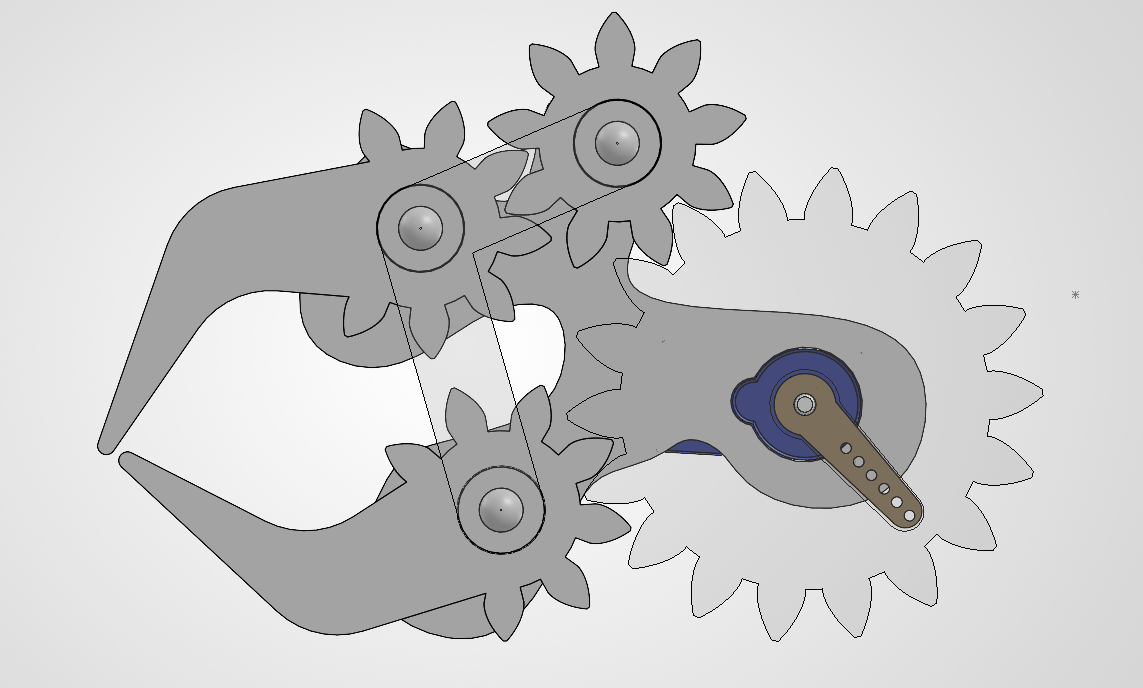
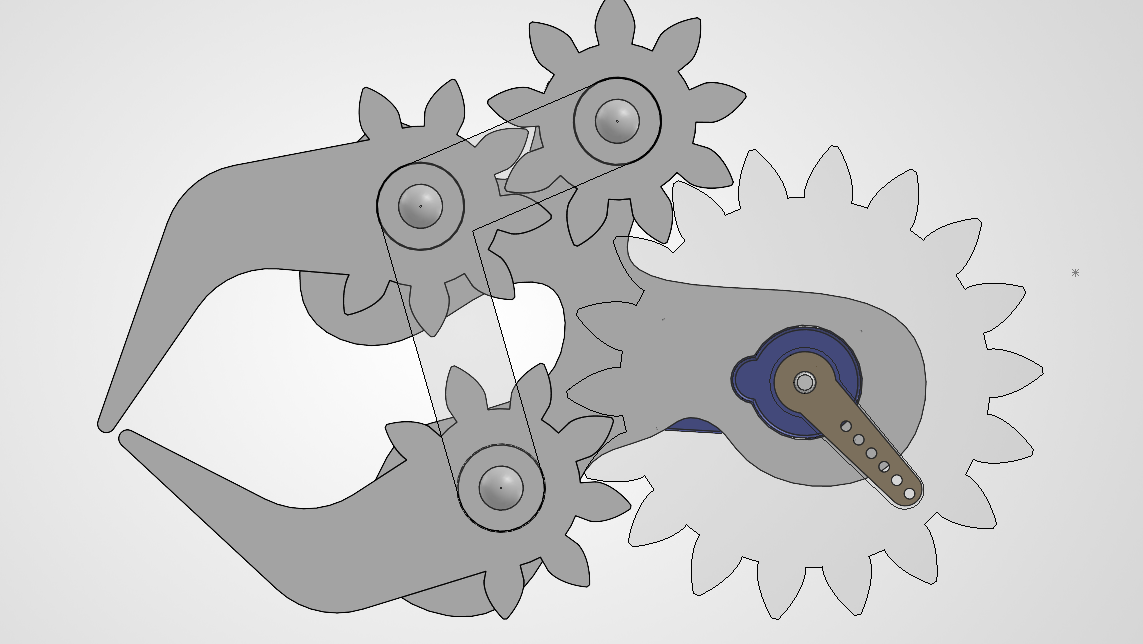
Polish for public: README, platformio comments, CAD image crop
Mermaid diagram simplified + connected; CAD render cropped to match the animation height; contact one-per-line; removed remaining 'not Arduino' phrasing; interpunct separators replaced with pipes; platformio.ini comments trimmed; phased_plan path ref removed; FIRMWARE_MAP HANDOFF ref repointed to README.

diff --git a/README.md b/README.md
@@ -37,16 +37,14 @@ The board is autonomous: the muscle drives everything, the laptop is only a view
 
 ```mermaid
 flowchart TD
-    EMG["Forearm EMG (analog)"] --> ADC["ADC + DMA @ 1 kHz<br/>TIM2-triggered, no CPU per sample (Emg.h)"]
-    ADC --> BRAIN["1 kHz brain, in the DMA ISR<br/>baseline / 50 Hz notch / dip detect / fail-safe<br/>(MuscleTrigger.h + Notch.h)"]
-    BRAIN -->|flex token| MAIL[["mailBox"]]
-    BRAIN -->|flex token| CMAIL[["canMailBox"]]
-    MAIL --> SERVO["servoTask (pri 3)<br/>toggle + ease the gripper (Servo.h)"]
-    CMAIL --> CANT["canTask (pri 2)<br/>CAN gesture 0x100 / status 0x101 (Mcp2515CanBus.h)"]
-    SERVO --> GRIP(["Gripper"])
-    CANT --> BUS(["CAN bus"])
-    COMMS["commsTask (pri 2)<br/>serial telemetry (Comms.h)"] -.-> PC(["Laptop viewer"])
-    WD["watchdogTask (pri 1, lowest)<br/>pets IWDG = watchdog-starvation reboot (Watchdog.h)"]
+    EMG[EMG sensor] --> ADC[ADC + DMA<br/>1 kHz]
+    ADC --> BRAIN[Brain<br/>DMA ISR]
+    BRAIN -->|flex| MB([mailBox])
+    BRAIN -->|flex| CM([canMailBox])
+    MB --> SV[servoTask] --> GR[Gripper]
+    CM --> CT[canTask] --> BUS[CAN bus]
+    ADC --> CO[commsTask] --> LAP[Laptop]
+    WD[watchdogTask] --> IWDG[IWDG reboot]
 ```
 
 Why the decision lives in the **ISR**: the muscle is sampled at 1 kHz by hardware (TIM2 → ADC → DMA), and the lightweight detector runs per-sample in the DMA-complete callback, so a flex is caught immediately and handed to the tasks through FreeRTOS queues (`xQueueSendFromISR`). The **watchdog task is the lowest priority on purpose**: if any higher task hangs, it never runs, never pets the IWDG, and the chip reboots itself.
@@ -167,5 +165,7 @@ This rebuilds the embedded layer of my M.Sc. thesis on single-channel sEMG gestu
 - Journal article (IJANSER, 2024): https://as-proceeding.com/index.php/ijanser/article/view/1728
 - Extended arXiv preprint: https://arxiv.org/abs/2504.15256
 
-**Can KADILAR** | embedded / firmware engineer
-Portfolio: [canarchive.com](https://canarchive.com) | LinkedIn: [can-kadilar](https://www.linkedin.com/in/can-kadilar/) | Email: [email redacted]
+**Can KADILAR** | embedded / firmware engineer  
+Portfolio: [canarchive.com](https://canarchive.com)  
+LinkedIn: [can-kadilar](https://www.linkedin.com/in/can-kadilar/)  
+Email: [email redacted]

diff --git a/FIRMWARE_MAP.md b/FIRMWARE_MAP.md
@@ -28,7 +28,7 @@ Flash: `pio run -t upload`.
 - `include/FreeRTOSConfig.h` , OUR config (16 MHz HSI clock, 1 kHz tick, 10 KB heap, PendSV/SVC mapped
   to the port). In `include/` so both our code and the kernel see it; the vendor folder stays pure.
 - Hard-float is mandatory for the CM4F port. The wiring is `platformio.ini` `build_flags` +
-  `fpu_link.py` (the link half). Do NOT remove either, the build breaks. See HANDOFF.md.
+  `fpu_link.py` (the link half). Do NOT remove either, the build breaks (see the build note in the README).
 
 ## The 1 kHz brain + the four tasks
 

diff --git a/docs/phased_plan.md b/docs/phased_plan.md
@@ -1,6 +1,5 @@
 # Phased plan (build checklist) , COMPLETE
 
-Scope source: `..\..\ChatAssistants\HealthAssistant\CareerAssistant\STM32_Project_Scope.md`.
 All phases done and verified on hardware (2026-06-14). Kept as a record of the build order.
 
 Legend: `[x]` done · `[ ]` deliberately not done (noted).